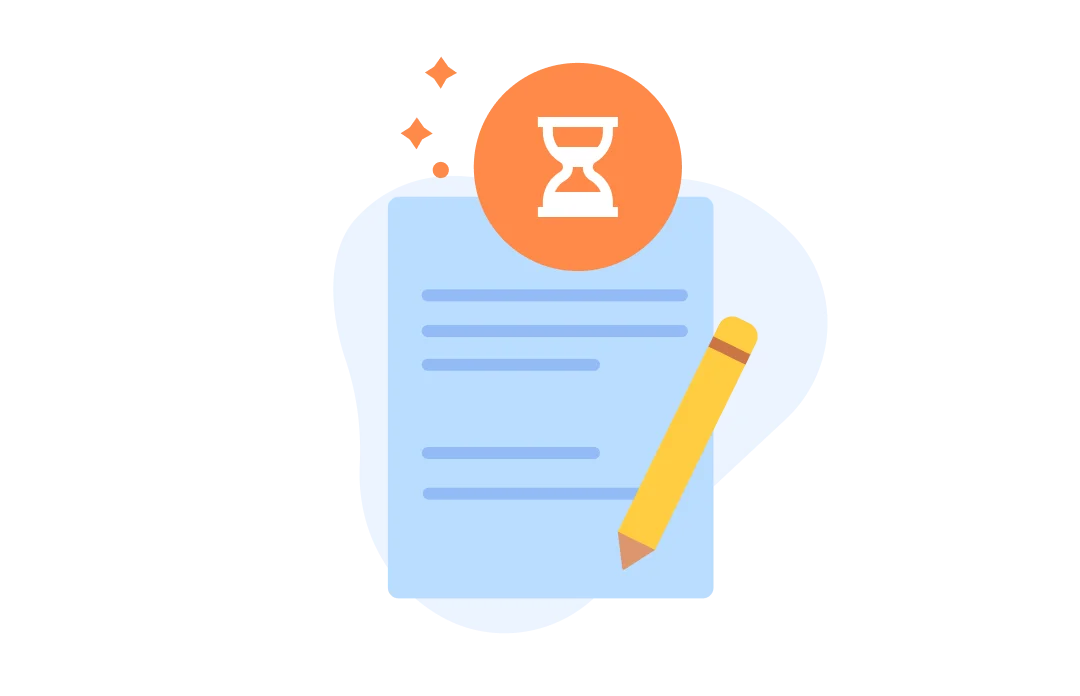
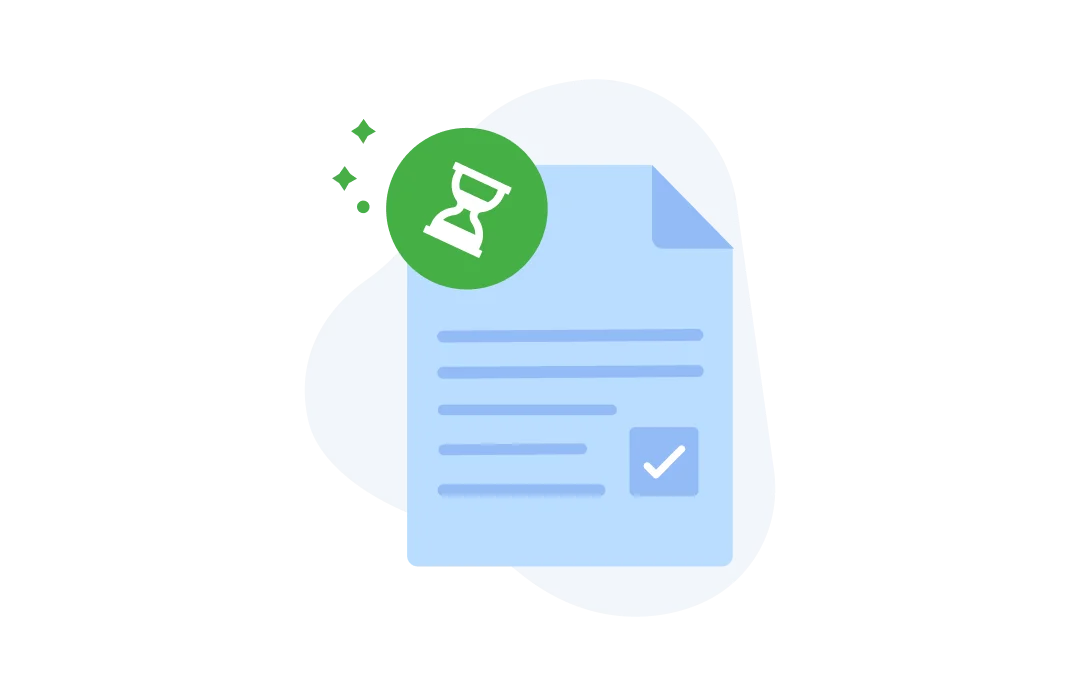
✨ feat: Improve course review submission experience

Changed region(s): [[0.3056, 0.0905, 0.7028, 0.875], [0.3972, 0.0905, 0.4278, 0.1207]]

diff --git a/assets/react/v3/entries/course-builder/components/layouts/Header.tsx b/assets/react/v3/entries/course-builder/components/layouts/Header.tsx
@@ -151,8 +151,8 @@ const Header = () => {
         showModal({
           component: SuccessModal,
           props: {
-            title: __('Course Under Review', 'tutor'),
-            description: __('Your course has been successfully submitted for review.', 'tutor'),
+            title: __('Course submitted for review', 'tutor'),
+            description: __('Thank you for submitting your course. It will be reviewed by our team shortly.', 'tutor'),
             image: reviewSubmitted,
             image2x: reviewSubmitted2x,
             imageAlt: __('Course submitted for review', 'tutor'),
